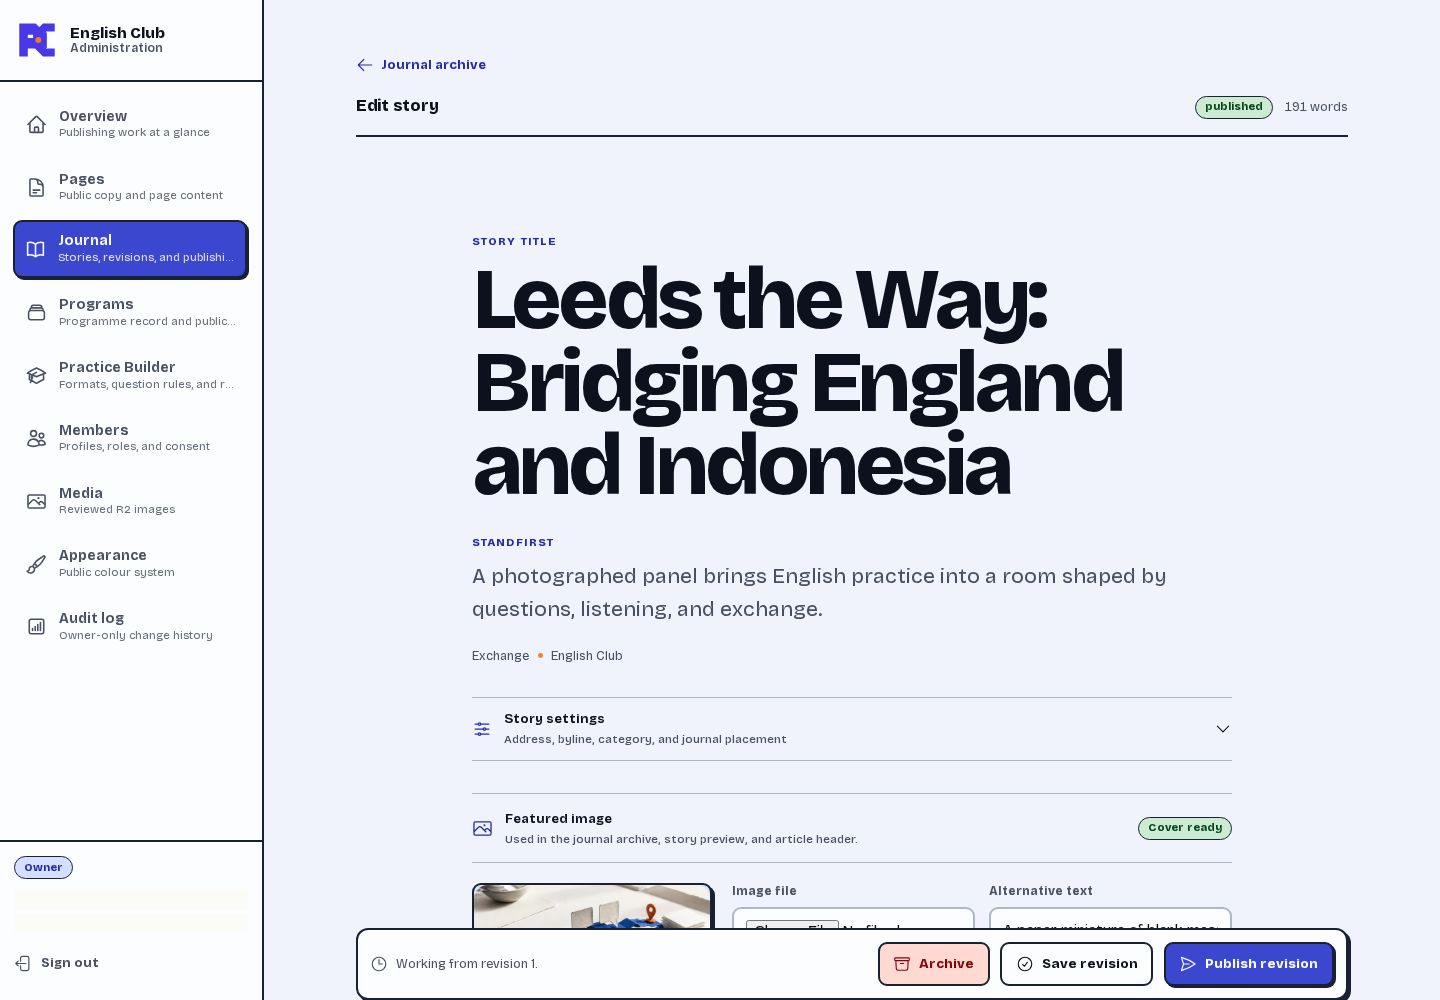
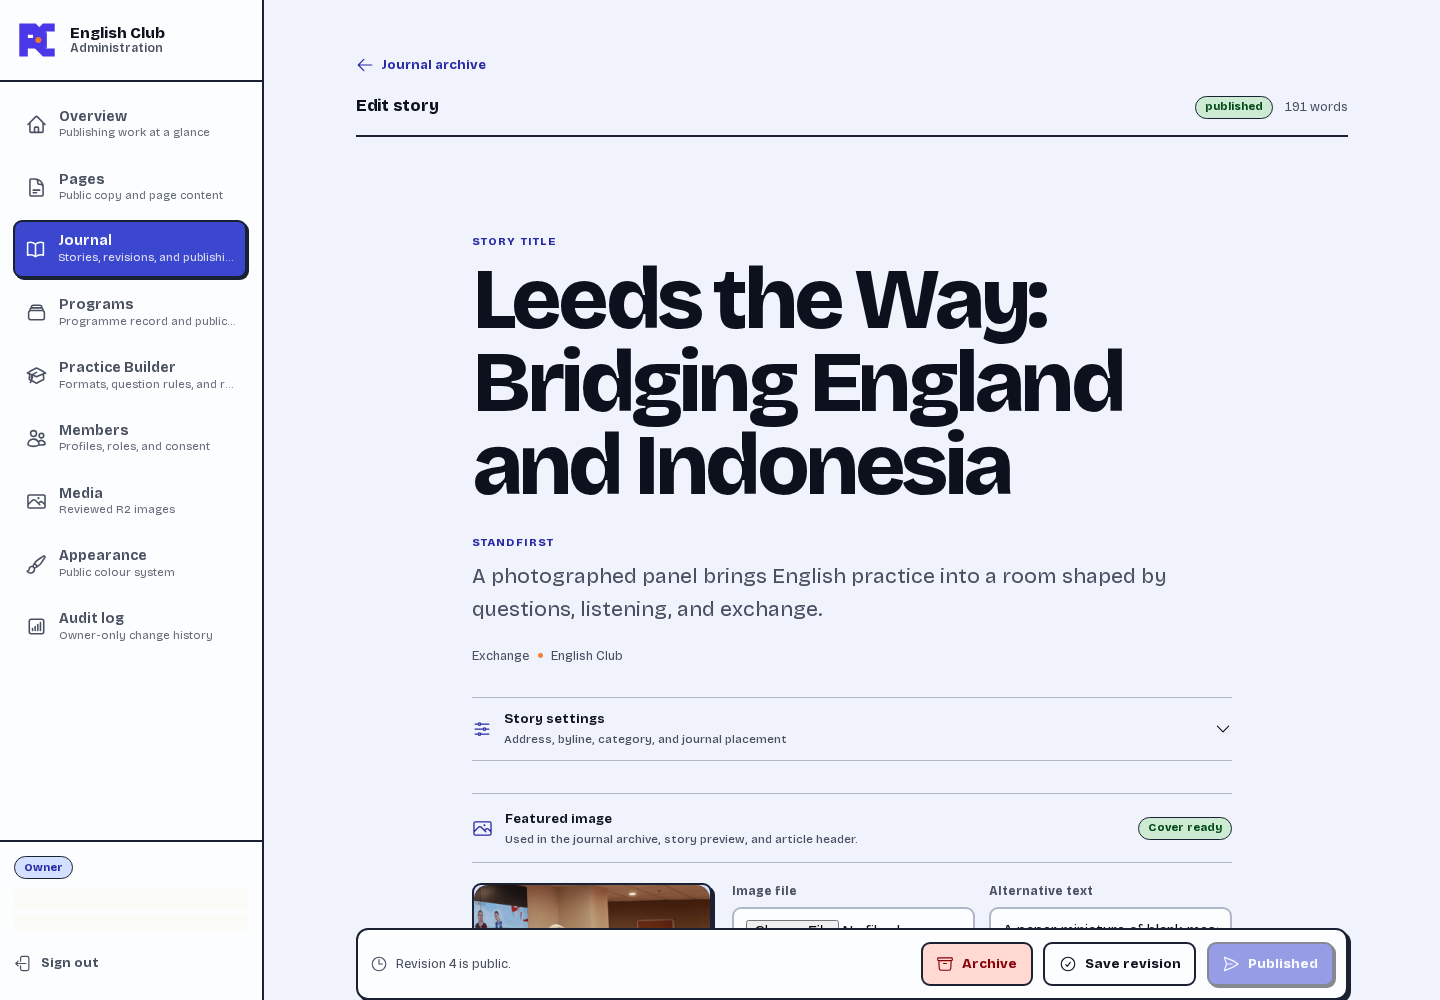
fix: make journal publication retries idempotent

Changed region(s): [[0.5938, 0.93, 0.9375, 0.992], [0.3125, 0.868, 0.5, 0.93], [0.2812, 0.961, 0.375, 0.992]]

diff --git a/src/components/admin/journal-workspace.tsx b/src/components/admin/journal-workspace.tsx
@@ -27,6 +27,7 @@ import {
 import { JournalCover } from "@/components/journal/journal-cover";
 import { getMedia } from "@/content/media";
 import type { PublicJournalMedia } from "@/lib/journal";
+import { isCurrentJournalRevisionPublished } from "@/lib/journal-publication";
 import type { Id } from "../../../convex/_generated/dataModel";
 import { api } from "../../../convex/_generated/api";
 
@@ -193,6 +194,9 @@ function JournalWorkspaceEditor({
       : { ...newStoryState },
   );
   const [revision, setRevision] = useState(workspace?.draft?.revision ?? 0);
+  const [confirmedPublishedRevision, setConfirmedPublishedRevision] = useState<
+    number | null
+  >(null);
   const [coverPreview, setCoverPreview] = useState<JournalCoverPreview | null>(
     initialCover,
   );
@@ -220,6 +224,14 @@ function JournalWorkspaceEditor({
     coverPreview !== null &&
     (coverPreview.coverMedia !== undefined ||
       getMedia(coverPreview.coverKey) !== undefined);
+  const storyIsArchived = workspace?.post.status === "archived";
+  const currentRevisionIsPublished =
+    !storyIsArchived &&
+    isCurrentJournalRevisionPublished({
+      currentRevision: revision,
+      publishedRevision: workspace?.published?.revision,
+      confirmedPublishedRevision,
+    });
   const editorInitialContent = useMemo(
     () =>
       source === undefined
@@ -335,6 +347,7 @@ function JournalWorkspaceEditor({
     setError("");
     try {
       const result = await publish({ postId: typedPostId, expectedRevision: revision });
+      setConfirmedPublishedRevision(result.revision);
       setMessage(`Revision ${result.revision} is now public.`);
     } catch (caught) {
       setError(humanizeError(caught));
@@ -636,7 +649,14 @@ function JournalWorkspaceEditor({
         <div className={styles.editorActionBar}>
           <div>
             <ClockIcon aria-hidden width={18} height={18} />
-            <span>{message || (revision > 0 ? `Working from revision ${revision}.` : "Not saved yet.")}</span>
+            <span>
+              {message ||
+                (currentRevisionIsPublished
+                  ? `Revision ${revision} is public.`
+                  : revision > 0
+                    ? `Working from revision ${revision}.`
+                    : "Not saved yet.")}
+            </span>
           </div>
           <div className={styles.buttonRow}>
             {typedPostId !== undefined && canPublish(admin) ? (
@@ -652,12 +672,33 @@ function JournalWorkspaceEditor({
             <button
               className={styles.primaryButton}
               type="button"
-              disabled={typedPostId === undefined || !canPublish(admin) || pending !== null || revision < 1}
-              title={canPublish(admin) ? undefined : "Publisher or owner access is required"}
+              disabled={
+                typedPostId === undefined ||
+                !canPublish(admin) ||
+                pending !== null ||
+                revision < 1 ||
+                currentRevisionIsPublished ||
+                storyIsArchived
+              }
+              title={
+                !canPublish(admin)
+                  ? "Publisher or owner access is required"
+                  : storyIsArchived
+                    ? "Restore this story from the journal archive before publishing."
+                    : currentRevisionIsPublished
+                      ? "Save a new revision before publishing again."
+                      : undefined
+              }
               onClick={() => void handlePublish()}
             >
               <PaperAirplaneIcon aria-hidden width={18} height={18} />
-              {pending === "publish" ? "Publishing…" : "Publish revision"}
+              {pending === "publish"
+                ? "Publishing…"
+                : storyIsArchived
+                  ? "Archived"
+                  : currentRevisionIsPublished
+                    ? "Published"
+                    : "Publish revision"}
             </button>
           </div>
         </div>

diff --git a/tests/convex/admin-backend.test.ts b/tests/convex/admin-backend.test.ts
@@ -536,7 +536,7 @@ describe("admin journal revisions", () => {
   });
 
   it("stores immutable structured drafts and only lets publishers publish", async () => {
-    const { editor, publisher } = await bootstrap();
+    const { t, editor, publisher } = await bootstrap();
     const saved = await editor.mutation(api.adminPosts.saveDraft, {
       expectedRevision: 0,
       slug: "listening-changes-the-room",
@@ -556,7 +556,7 @@ describe("admin journal revisions", () => {
         expectedRevision: 1,
       }),
     ).rejects.toThrow();
-    await publisher.mutation(api.adminPosts.publish, {
+    const firstPublication = await publisher.mutation(api.adminPosts.publish, {
       postId: saved.postId,
       expectedRevision: 1,
     });
@@ -565,7 +565,19 @@ describe("admin journal revisions", () => {
         postId: saved.postId,
         expectedRevision: 1,
       }),
-    ).rejects.toThrow("already published");
+    ).resolves.toEqual(firstPublication);
+    const publicationEvents = await t.run(async (ctx) => {
+      const events = await ctx.db
+        .query("cmsAuditEvents")
+        .withIndex("by_area_and_created_at", (q) => q.eq("area", "journal"))
+        .order("desc")
+        .take(10);
+      return events.filter(
+        (event) =>
+          event.resourceId === saved.postId && event.action === "publish",
+      );
+    });
+    expect(publicationEvents).toHaveLength(1);
     const publicPost = await publisher.query(api.posts.getPublishedBySlug, {
       slug: "listening-changes-the-room",
     });

diff --git a/tests/unit/journal.test.ts b/tests/unit/journal.test.ts
@@ -7,6 +7,7 @@ import {
   getPublishedPosts,
   parseJournalCursor,
 } from "@/lib/journal";
+import { isCurrentJournalRevisionPublished } from "@/lib/journal-publication";
 
 afterEach(() => {
   vi.unstubAllEnvs();
@@ -75,5 +76,38 @@ describe("journal Convex adapter", () => {
     expect(parseJournalCursor(["one", "two"])).toEqual({ state: "invalid" });
     expect(parseJournalCursor(" ")).toEqual({ state: "invalid" });
     expect(parseJournalCursor("x".repeat(2_049))).toEqual({ state: "invalid" });
+  });
+});
+
+describe("journal publication state", () => {
+  it("recognizes both server-confirmed and just-published revisions", () => {
+    expect(
+      isCurrentJournalRevisionPublished({
+        currentRevision: 3,
+        publishedRevision: 3,
+      }),
+    ).toBe(true);
+    expect(
+      isCurrentJournalRevisionPublished({
+        currentRevision: 4,
+        publishedRevision: 3,
+        confirmedPublishedRevision: 4,
+      }),
+    ).toBe(true);
+  });
+
+  it("keeps new and newer draft revisions publishable", () => {
+    expect(
+      isCurrentJournalRevisionPublished({
+        currentRevision: 0,
+        publishedRevision: 0,
+      }),
+    ).toBe(false);
+    expect(
+      isCurrentJournalRevisionPublished({
+        currentRevision: 4,
+        publishedRevision: 3,
+      }),
+    ).toBe(false);
   });
 });

diff --git a/convex/adminPosts.ts b/convex/adminPosts.ts
@@ -447,7 +447,17 @@ export const publish = mutation({
       throw new Error("Journal draft changed before publication.");
     }
     if (post.publishedRevisionId === revision._id) {
-      throw new Error("This journal revision is already published.");
+      if (post.status !== "published" || post.publishedAt === undefined) {
+        throw new Error(
+          post.status === "archived"
+            ? "Restore this archived journal story before publishing another revision."
+            : "Journal publication state is inconsistent.",
+        );
+      }
+      return {
+        publishedAt: post.publishedAt,
+        revision: revision.revision,
+      };
     }
     if (revision.plainText.length < 80) {
       throw new Error("Journal story is too short to publish.");

diff --git a/tests/e2e/admin-current-fixes.spec.ts b/tests/e2e/admin-current-fixes.spec.ts
@@ -380,6 +380,15 @@ test.describe("current administration fixes", () => {
       "alt",
       alternativeText,
     );
+    const publishButton = page.getByRole("button", {
+      name: "Published",
+      exact: true,
+    });
+    await expect(publishButton).toBeDisabled();
+    await expect(publishButton).toHaveAttribute(
+      "title",
+      "Save a new revision before publishing again.",
+    );
 
     await page.getByRole("heading", { name: "Featured image" }).scrollIntoViewIfNeeded();
     await captureAdminEvidence(page, {

diff --git a/src/lib/journal-publication.ts b/src/lib/journal-publication.ts
@@ -1,0 +1,16 @@
+export function isCurrentJournalRevisionPublished({
+  currentRevision,
+  publishedRevision,
+  confirmedPublishedRevision,
+}: {
+  currentRevision: number;
+  publishedRevision?: number;
+  confirmedPublishedRevision?: number | null;
+}) {
+  if (currentRevision < 1) return false;
+
+  return (
+    currentRevision ===
+    Math.max(publishedRevision ?? 0, confirmedPublishedRevision ?? 0)
+  );
+}

diff --git a/docs/ACTIVE-FIX-LEDGER.md b/docs/ACTIVE-FIX-LEDGER.md
@@ -25,6 +25,15 @@ Implementation commit: `9846874 fix: load legacy journal posts in editor`.
 - [x] Remove archived stories from public reads and restore the last valid published revision safely.
 - [x] Confirm lifecycle transitions, negative permissions, public visibility, and audit records in Convex tests.
 
+## Journal publication retry
+
+- [x] Reproduce the reported `This journal revision is already published` failure by publishing the same saved revision twice.
+- [x] Make an exact publication retry idempotent while preserving publisher authorization and optimistic revision checks.
+- [x] Return the original publication timestamp and avoid duplicate writes or audit events on retry.
+- [x] Mark the current public revision as **Published** in the editor and disable the action until a new revision is saved.
+- [x] Verify the reported Leeds edit route at desktop, Pixel 7, and 320 px with no browser errors.
+- [x] Push the repaired mutation to `dev:perfect-greyhound-270` only.
+
 ## Page Copy scrolling
 
 - [x] Give the content-field rail its own labelled, keyboard-scrollable region on desktop.
